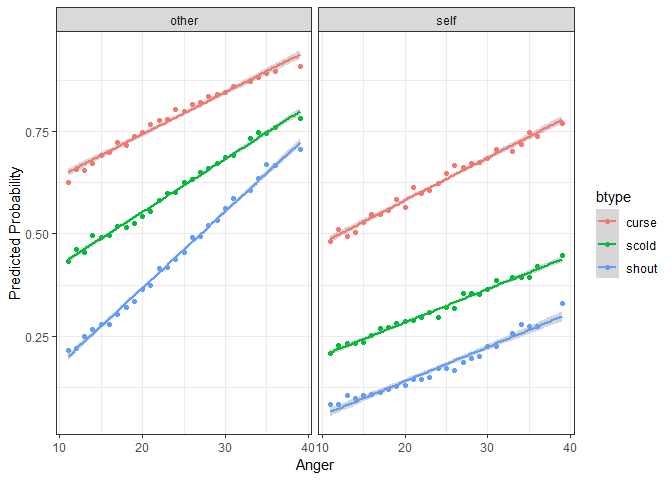
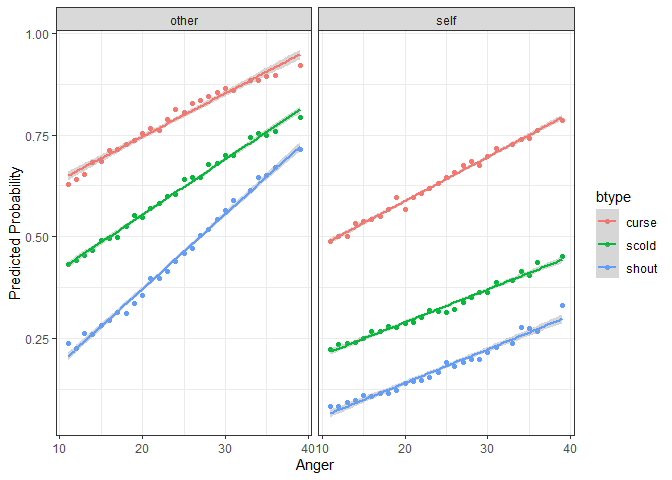
fixing minor issues with PR #120

diff --git a/README.md b/README.md
@@ -2,21 +2,15 @@
 Status](https://travis-ci.org/jknowles/merTools.png?branch=master)](https://travis-ci.org/jknowles/merTools)
 [![Coverage
 Status](https://coveralls.io/repos/jknowles/merTools/badge.svg?branch=master)](https://coveralls.io/r/jknowles/merTools?branch=master)
-[![Github
-Issues](http://githubbadges.herokuapp.com/jknowles/merTools/issues.svg)](https://github.com/jknowles/merTools/issues)
-[![Pending
-Pull-Requests](http://githubbadges.herokuapp.com/jknowles/merTools/pulls.svg?style=flat)](https://github.com/jknowles/merTools/pulls)
-[![CRAN\_Status\_Badge](http://www.r-pkg.org/badges/version/merTools)](https://cran.r-project.org/package=merTools)
+[![CRAN_Status_Badge](http://www.r-pkg.org/badges/version/merTools)](https://cran.r-project.org/package=merTools)
 [![Downloads](http://cranlogs.r-pkg.org/badges/merTools)](https://cran.r-project.org/package=merTools)
 [![Downloads](http://cranlogs.r-pkg.org/badges/grand-total/merTools)](https://cran.r-project.org/package=merTools)
-[![Research software
-impact](http://depsy.org/api/package/cran/merTools/badge.svg)](http://depsy.org/package/r/merTools)
 
 <!-- README.md is generated from README.Rmd. Please edit that file -->
 
 # merTools
 
-A package for getting the most of our multilevel models in R
+A package for getting the most out of large multilevel models in R
 
 by Jared E. Knowles and Carl Frederick
 
@@ -44,55 +38,55 @@ install.packages("merTools")
 
 #### New Features
 
-  - `subBoot` now works with `glmerMod` objects as well
-  - `reMargins` a new function that allows the user to marginalize the
+-   `subBoot` now works with `glmerMod` objects as well
+-   `reMargins` a new function that allows the user to marginalize the
     prediction over breaks in the distribution of random effect
     distributions, see `?reMargins` and the new `reMargins` vignette
     (closes \#73)
 
 #### Bug fixes
 
-  - Fixed an issue where known convergence errors were issuing warnings
+-   Fixed an issue where known convergence errors were issuing warnings
     and causing the test suite to not work
-  - Fixed an issue where models with a random slope, no intercept, and
-    no fixed term were unable to be predicted (\#101)
-  - Fixed an issue with shinyMer not working with substantive fixed
-    effects (\#93)
+-   Fixed an issue where models with a random slope, no intercept, and
+    no fixed term were unable to be predicted (#101)
+-   Fixed an issue with shinyMer not working with substantive fixed
+    effects (#93)
 
 ### merTools 0.4.1
 
 #### New Features
 
-  - Standard errors reported by `merModList` functions now apply the
+-   Standard errors reported by `merModList` functions now apply the
     Rubin correction for multiple imputation
 
 #### Bug fixes
 
-  - Contribution by Alex Whitworth (@alexWhitworth) adding error
+-   Contribution by Alex Whitworth (@alexWhitworth) adding error
     checking to plotting functions
 
 ### merTools 0.4.0
 
 #### New Features
 
-  - Added vignette on using multilevel models with multiply imputed data
-  - Added `fixef` and `ranef` generics for `merModList` objects
-  - Added `fastdisp` generic for `merModList`
-  - Added `summary` generic for `merModList`
-  - Added `print` generic for `merModList`
-  - Documented all generics for `merModList` including examples and a
+-   Added vignette on using multilevel models with multiply imputed data
+-   Added `fixef` and `ranef` generics for `merModList` objects
+-   Added `fastdisp` generic for `merModList`
+-   Added `summary` generic for `merModList`
+-   Added `print` generic for `merModList`
+-   Documented all generics for `merModList` including examples and a
     new imputation vignette
-  - Added `modelInfo` generic for `merMod` objects that provides simple
+-   Added `modelInfo` generic for `merMod` objects that provides simple
     summary stats about a whole model
 
 #### Bug Fixes
 
-  - Fix bug that returned NaN for `std.error` of a multiply imputed
+-   Fix bug that returned NaN for `std.error` of a multiply imputed
     `merModList` when calling `modelRandEffStats`
-  - Fixed bug in `REimpact` where some column names in `newdata` would
+-   Fixed bug in `REimpact` where some column names in `newdata` would
     prevent the prediction intervals from being computed correctly.
     Users will now be warned.
-  - Fixed bug in `wiggle` where documentation incorrectly stated the
+-   Fixed bug in `wiggle` where documentation incorrectly stated the
     arguments to the function and the documentation did not describe
     function correctly
 
@@ -163,17 +157,17 @@ standard objects produced by `lm` and `glm`:
 #predictInterval(m1, newdata = InstEval[1:10, ]) # all other parameters are optional
 predictInterval(m1, newdata = InstEval[1:10, ], n.sims = 500, level = 0.9, 
                 stat = 'median')
-#>         fit      upr       lwr
-#> 1  3.015857 5.088929 1.1835562
-#> 2  3.277143 5.220196 1.1038519
-#> 3  3.404557 5.350846 1.3090942
-#> 4  3.108511 5.314549 0.9256501
-#> 5  3.260811 5.420831 1.2343590
-#> 6  3.150673 5.267239 1.3318446
-#> 7  4.085517 6.192887 2.1149662
-#> 8  3.776922 5.715385 1.7600005
-#> 9  3.799624 6.045041 1.7959515
-#> 10 3.195235 5.180454 1.2971043
+#>         fit      upr      lwr
+#> 1  3.132412 5.049890 1.150327
+#> 2  3.069004 4.967174 1.349411
+#> 3  3.371890 5.225487 1.203104
+#> 4  3.065470 5.098975 1.052925
+#> 5  3.294912 5.262798 1.162989
+#> 6  3.244553 5.288931 1.138605
+#> 7  4.231166 6.258813 2.424893
+#> 8  3.781273 5.604849 2.099314
+#> 9  3.836202 5.747436 1.676611
+#> 10 3.367951 5.276930 1.423142
 ```
 
 Note that `predictInterval` is slower because it is computing
@@ -194,47 +188,47 @@ interval.
 ``` r
 predictInterval(m1, newdata = InstEval[1:10, ], n.sims = 200, level = 0.9, 
                 stat = 'median', which = "all")
-#>      effect         fit      upr       lwr obs
-#> 1  combined  3.18738014 4.966371  1.126030   1
-#> 2  combined  2.97373166 5.126738  1.274230   2
-#> 3  combined  3.27899702 5.362678  1.472948   3
-#> 4  combined  3.23788384 5.020504  1.050771   4
-#> 5  combined  3.37136338 5.350912  1.242096   5
-#> 6  combined  3.15899583 5.217095  1.331035   6
-#> 7  combined  4.14067417 6.187147  2.068142   7
-#> 8  combined  4.02432057 6.067216  1.654789   8
-#> 9  combined  3.77403216 5.554346  1.964592   9
-#> 10 combined  3.42735845 5.296553  1.435939  10
-#> 11        s  0.07251608 1.918014 -2.089567   1
-#> 12        s  0.08247714 1.953635 -1.810187   2
-#> 13        s  0.09157851 2.184732 -1.943005   3
-#> 14        s  0.13788161 1.811599 -1.622534   4
-#> 15        s  0.07322001 1.741112 -2.165038   5
-#> 16        s -0.11882131 1.735864 -2.302783   6
-#> 17        s  0.19512517 2.245456 -1.630585   7
-#> 18        s  0.17986892 2.064228 -1.743939   8
-#> 19        s  0.42961647 2.089356 -1.536597   9
-#> 20        s  0.41084777 2.124038 -1.681811  10
-#> 21        d -0.16574871 1.846935 -2.142487   1
-#> 22        d -0.05194920 1.839777 -1.897692   2
-#> 23        d  0.09294099 2.062341 -1.811622   3
-#> 24        d -0.27500494 1.470227 -2.026380   4
-#> 25        d  0.10836089 1.758614 -1.613323   5
-#> 26        d -0.10553477 2.057018 -1.928175   6
-#> 27        d  0.58243006 2.712166 -1.427938   7
-#> 28        d  0.24593391 2.142436 -1.421031   8
-#> 29        d  0.01724017 2.472836 -1.853576   9
-#> 30        d -0.19182347 1.693597 -2.412778  10
-#> 31    fixed  3.16933865 5.219839  1.287274   1
-#> 32    fixed  3.16287615 5.140116  1.524180   2
-#> 33    fixed  3.29291541 4.902726  1.382934   3
-#> 34    fixed  3.01686447 5.285364  1.248745   4
-#> 35    fixed  3.30761049 5.106185  1.420678   5
-#> 36    fixed  3.32362576 4.872431  1.557399   6
-#> 37    fixed  3.27480918 5.680335  1.374587   7
-#> 38    fixed  3.47316648 5.063170  1.595717   8
-#> 39    fixed  3.33332336 5.208318  1.435965   9
-#> 40    fixed  3.27800249 5.158261  1.463540  10
+#>      effect           fit      upr        lwr obs
+#> 1  combined  3.2540525131 4.851934  1.2475328   1
+#> 2  combined  3.1753216228 5.224952  1.1905459   2
+#> 3  combined  3.4454221587 5.532090  1.2890110   3
+#> 4  combined  3.1578660116 5.317547  1.1327241   4
+#> 5  combined  3.4784433122 5.479333  1.4475864   5
+#> 6  combined  3.1395561625 5.277999  1.2131769   6
+#> 7  combined  4.0953033332 5.897310  2.2026540   7
+#> 8  combined  3.8497708965 5.520022  1.8972317   8
+#> 9  combined  3.8399908781 5.324169  1.6335418   9
+#> 10 combined  3.3522919893 5.138446  1.7777244  10
+#> 11        s  0.1609574017 2.280438 -1.6557246   1
+#> 12        s  0.3452691401 2.398365 -1.6241005   2
+#> 13        s -0.0006663979 2.062559 -1.6416237   3
+#> 14        s  0.0210520917 1.942374 -1.6583963   4
+#> 15        s -0.1742755831 2.359372 -2.0115378   5
+#> 16        s  0.0392215140 2.138145 -1.9365056   6
+#> 17        s  0.3473602858 2.382207 -1.5927409   7
+#> 18        s  0.1321817157 2.040468 -1.5521957   8
+#> 19        s  0.3581967760 2.301422 -1.6630743   9
+#> 20        s  0.2418774146 2.172069 -1.6219465  10
+#> 21        d -0.2188230250 1.578214 -2.0762967   1
+#> 22        d -0.3078932312 1.808852 -2.0341853   2
+#> 23        d  0.0392979203 1.911539 -1.8048353   3
+#> 24        d -0.0656348864 1.698348 -2.2446730   4
+#> 25        d  0.1754887186 2.118397 -2.0089090   5
+#> 26        d  0.1150995845 2.143500 -2.0168937   6
+#> 27        d  0.7218818083 2.389070 -1.0393478   7
+#> 28        d  0.1930955117 2.138620 -1.9178248   8
+#> 29        d  0.3260866954 2.507140 -1.8411643   9
+#> 30        d -0.3521779048 1.649898 -2.3212154  10
+#> 31    fixed  3.2538642529 5.066044  1.3034822   1
+#> 32    fixed  3.1234760300 4.973536  0.8102403   2
+#> 33    fixed  3.1557416254 5.206102  1.3762575   3
+#> 34    fixed  3.1122406870 5.091127  1.0914009   4
+#> 35    fixed  3.4325167242 5.221134  1.2653626   5
+#> 36    fixed  3.3740892423 5.183653  1.2385467   6
+#> 37    fixed  3.0971849967 5.158864  1.4192060   7
+#> 38    fixed  3.1386171238 4.930877  1.2996725   8
+#> 39    fixed  3.1457732415 5.370632  1.5128355   9
+#> 40    fixed  3.1390823897 5.329963  1.5155335  10
 ```
 
 This can lead to some useful plotting:
@@ -284,12 +278,12 @@ fixed and random effect parameters.
 feSims <- FEsim(m1, n.sims = 100)
 head(feSims)
 #>          term        mean      median         sd
-#> 1 (Intercept)  3.22450825  3.22391563 0.01814137
-#> 2    service1 -0.07020093 -0.07020791 0.01288904
-#> 3   lectage.L -0.18513512 -0.18608254 0.01616639
-#> 4   lectage.Q  0.02471446  0.02512454 0.01087328
-#> 5   lectage.C -0.02594511 -0.02425488 0.01300243
-#> 6   lectage^4 -0.01880190 -0.01887871 0.01410205
+#> 1 (Intercept)  3.22767582  3.22761955 0.02049772
+#> 2    service1 -0.07086013 -0.07125082 0.01227076
+#> 3   lectage.L -0.18444289 -0.18381933 0.01468229
+#> 4   lectage.Q  0.02078291  0.02141907 0.01286262
+#> 5   lectage.C -0.02501968 -0.02435823 0.01221798
+#> 6   lectage^4 -0.02014908 -0.02107177 0.01212984
 ```
 
 And we can also plot this:
@@ -305,13 +299,13 @@ We can also quickly make caterpillar plots for the random-effect terms:
 ``` r
 reSims <- REsim(m1, n.sims = 100)
 head(reSims)
-#>   groupFctr groupID        term        mean      median        sd
-#> 1         s       1 (Intercept)  0.21962903  0.26429668 0.3113619
-#> 2         s       2 (Intercept) -0.04134078 -0.03064871 0.2922675
-#> 3         s       3 (Intercept)  0.31819925  0.32744181 0.3530303
-#> 4         s       4 (Intercept)  0.21088441  0.22023284 0.3176695
-#> 5         s       5 (Intercept)  0.02441805 -0.02929245 0.3350150
-#> 6         s       6 (Intercept)  0.10534748  0.12763830 0.2284094
+#>   groupFctr groupID        term        mean       median        sd
+#> 1         s       1 (Intercept)  0.14968443  0.126556409 0.2830427
+#> 2         s       2 (Intercept) -0.02687232 -0.024849270 0.2828727
+#> 3         s       3 (Intercept)  0.26895812  0.252701182 0.2732403
+#> 4         s       4 (Intercept)  0.19719511  0.169396113 0.2771770
+#> 5         s       5 (Intercept)  0.02378876  0.003333246 0.2867102
+#> 6         s       6 (Intercept)  0.08342151  0.074260609 0.2350585
 ```
 
 ``` r
@@ -378,11 +372,11 @@ impSim <- REimpact(m1, InstEval[7, ], groupFctr = "d", breaks = 5,
 #> Warning: executing %dopar% sequentially: no parallel backend registered
 impSim
 #>   case bin   AvgFit     AvgFitSE nobs
-#> 1    1   1 2.797430 2.900363e-04  193
-#> 2    1   2 3.263396 6.627139e-05  240
-#> 3    1   3 3.551957 5.770126e-05  254
-#> 4    1   4 3.841343 6.469439e-05  265
-#> 5    1   5 4.236372 2.100511e-04  176
+#> 1    1   1 2.767921 2.847330e-04  193
+#> 2    1   2 3.253321 6.623160e-05  240
+#> 3    1   3 3.544864 5.988588e-05  254
+#> 4    1   4 3.837757 7.343610e-05  265
+#> 5    1   5 4.205953 1.836490e-04  176
 ```
 
 The result of `REimpact` shows the change in the `yhat` as the case we
@@ -420,9 +414,8 @@ data(VerbAgg)
 fmVA <- glmer(r2 ~ (Anger + Gender + btype + situ)^2 +
            (1|id) + (1|item), family = binomial, 
            data = VerbAgg)
-#> Warning in checkConv(attr(opt, "derivs"), opt$par, ctrl =
-#> control$checkConv, : Model failed to converge with max|grad| = 0.0505464
-#> (tol = 0.001, component 1)
+#> Warning in checkConv(attr(opt, "derivs"), opt$par, ctrl = control$checkConv, :
+#> Model failed to converge with max|grad| = 0.0543724 (tol = 0.002, component 1)
 ```
 
 Now we prep the data using the `draw` function in `merTools`. Here we
@@ -442,17 +435,17 @@ newData <- wiggle(newData, var = "situ",
 newData <- wiggle(newData, var = "Anger", 
                   valueslist = list(unique(VerbAgg$Anger)))
 head(newData, 10)
-#>    r2 Anger Gender btype  situ  id        item
-#> 1   N    20      F curse other 149 S3WantCurse
-#> 2   N    20      F scold other 149 S3WantCurse
-#> 3   N    20      F shout other 149 S3WantCurse
-#> 4   N    20      F curse  self 149 S3WantCurse
-#> 5   N    20      F scold  self 149 S3WantCurse
-#> 6   N    20      F shout  self 149 S3WantCurse
-#> 7   N    11      F curse other 149 S3WantCurse
-#> 8   N    11      F scold other 149 S3WantCurse
-#> 9   N    11      F shout other 149 S3WantCurse
-#> 10  N    11      F curse  self 149 S3WantCurse
+#>    r2 Anger Gender btype  situ id        item
+#> 1   N    20      F curse other  5 S3WantCurse
+#> 2   N    20      F scold other  5 S3WantCurse
+#> 3   N    20      F shout other  5 S3WantCurse
+#> 4   N    20      F curse  self  5 S3WantCurse
+#> 5   N    20      F scold  self  5 S3WantCurse
+#> 6   N    20      F shout  self  5 S3WantCurse
+#> 7   N    11      F curse other  5 S3WantCurse
+#> 8   N    11      F scold other  5 S3WantCurse
+#> 9   N    11      F shout other  5 S3WantCurse
+#> 10  N    11      F curse  self  5 S3WantCurse
 ```
 
 The next step is familiar – we simply pass this new dataset to
@@ -470,6 +463,7 @@ ggplot(plotdf, aes(y = fit, x = Anger, color = btype, group = btype)) +
   geom_point() + geom_smooth(aes(color = btype), method = "lm") + 
   facet_wrap(~situ) + theme_bw() +
   labs(y = "Predicted Probability")
+#> `geom_smooth()` using formula 'y ~ x'
 ```
 
 ![](man/figures/README_substImpactPredict-1.png)<!-- -->
